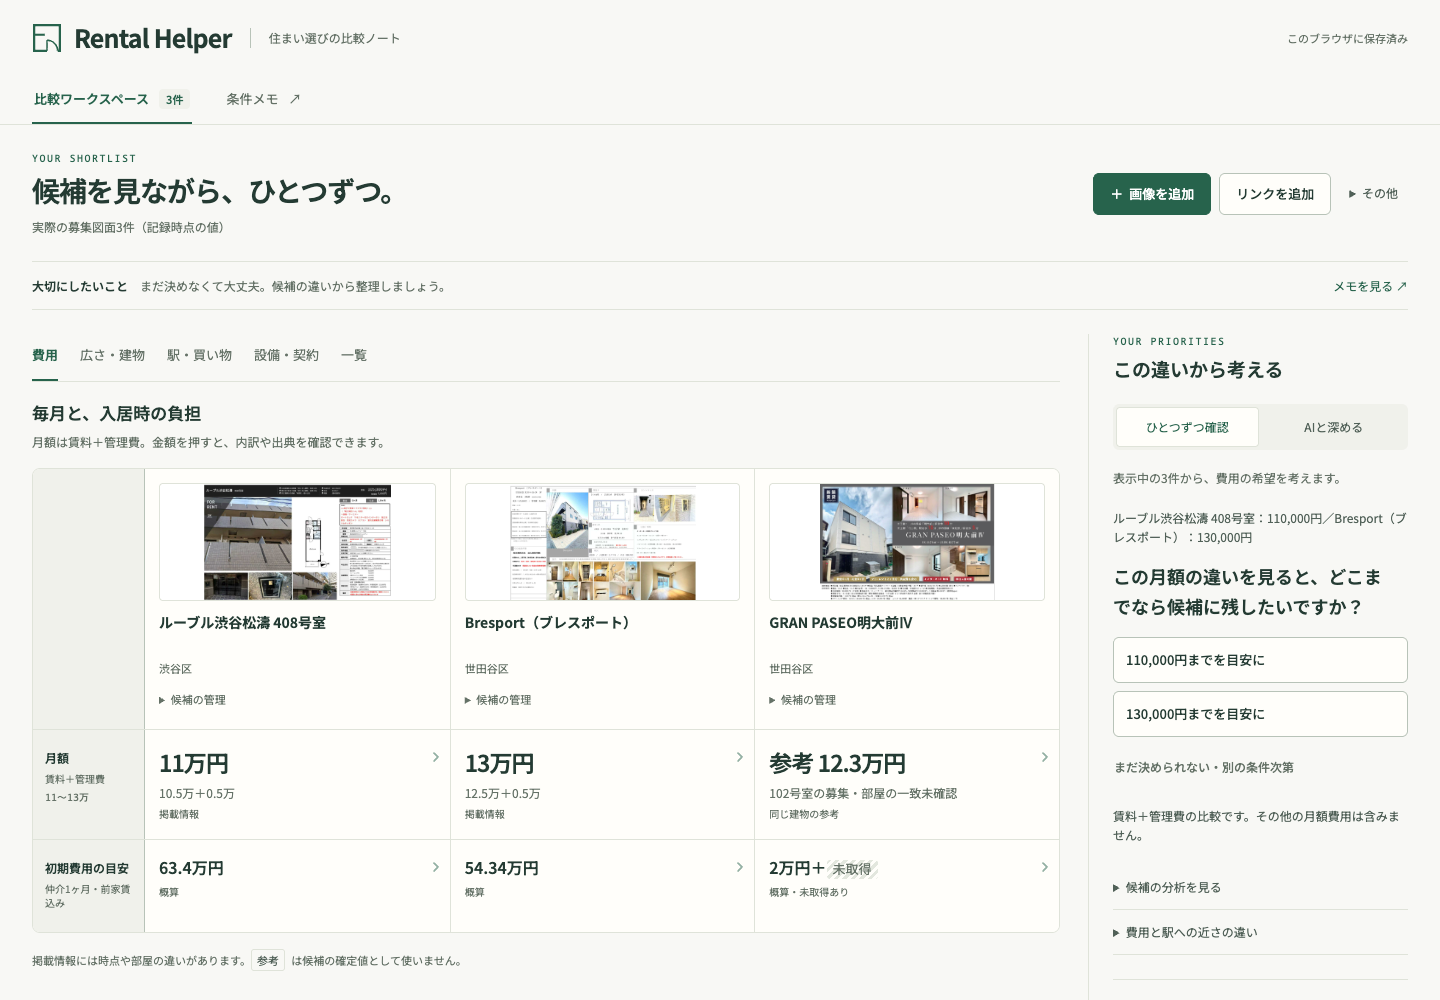
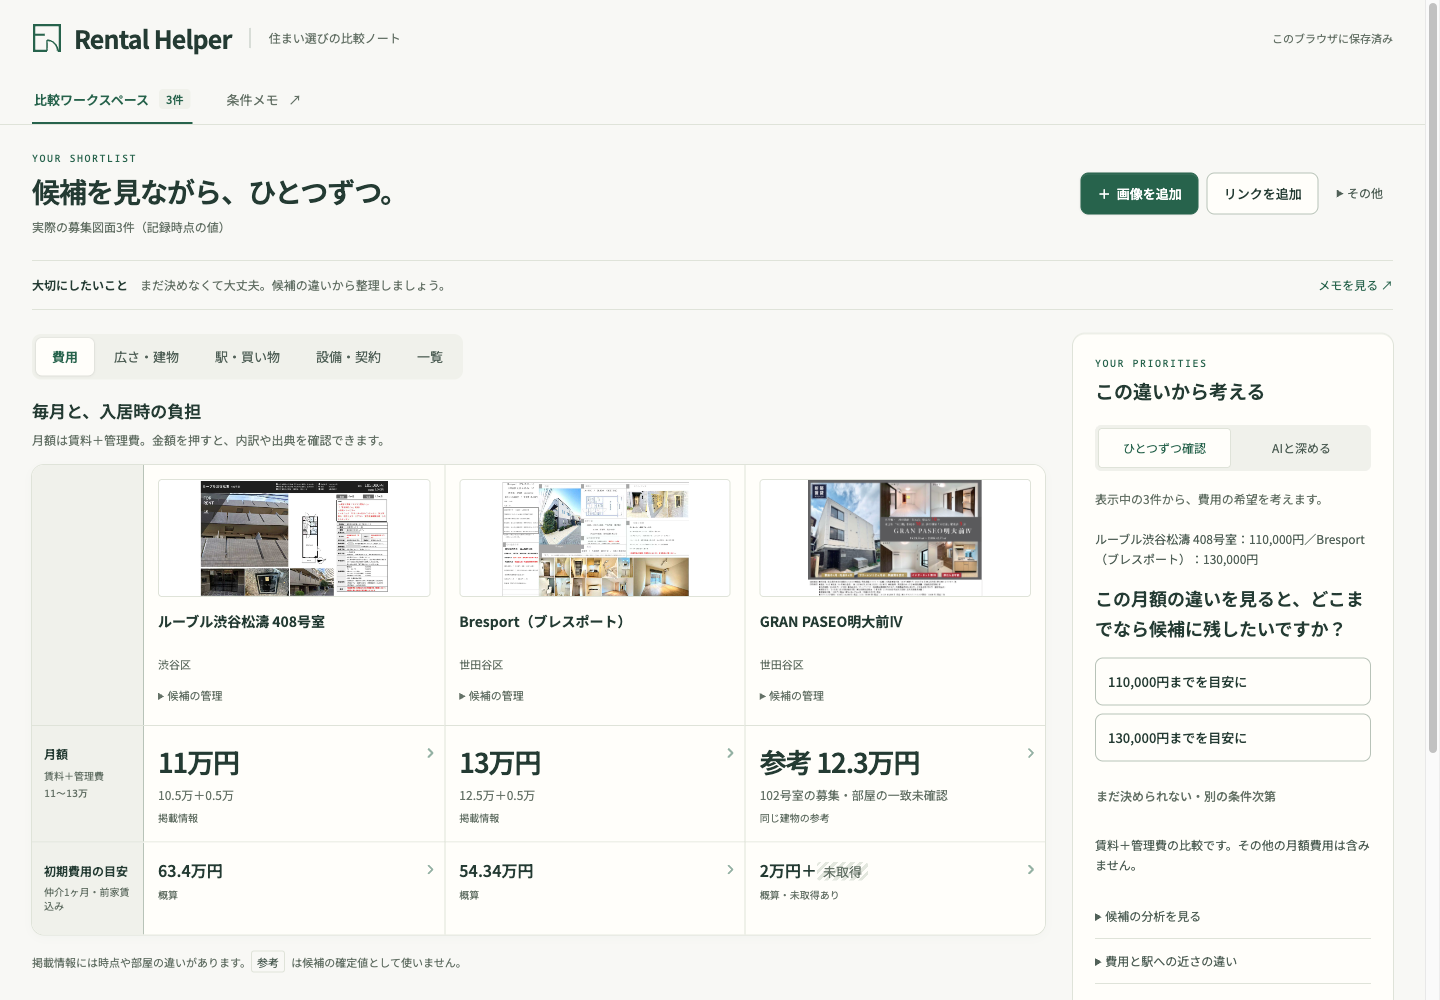
docs(ui): explain Emil-inspired design decisions and refresh walkthrough

diff --git a/docs/UI_DESIGN.md b/docs/UI_DESIGN.md
@@ -1,0 +1,40 @@
+# Interface craft
+
+The workspace should feel like a calm comparison notebook: clear amounts, restrained green accents and original listing evidence. The comparison is the main surface, contextual questions are its inspector, and the brief is the takeaway. Motion explains occasional overlays and acknowledges a press; repeated tab and keyboard actions stay immediate.
+
+This pass applies [Emil Kowalski's design engineering skill](https://github.com/emilkowalski/skills/blob/85e8e2363b713506e1d5b6e07a0eb2da66be1bc3/skills/emil-design-eng/SKILL.md) and [mobile-native skill](https://github.com/emilkowalski/skills/blob/85e8e2363b713506e1d5b6e07a0eb2da66be1bc3/skills/mobile-native/SKILL.md), reviewed on September 22, 2026. The installed skills are development guidance; the shipped frontend has no dependency on them or an animation library.
+
+| Before | After | Why |
+| --- | --- | --- |
+| Similar emphasis across navigation, values and questions | Selected perspective on a quiet segmented surface; larger monthly amounts; a distinct question inspector | Make the current comparison and next action easier to find. |
+| Whole workspace animates on tab changes | Immediate tab changes | Repeated comparison should not wait for decoration. |
+| Every dialog enters from below; closes abruptly | Centered dialogs, right-hand sources and mobile sheets use their own direction; 240 ms entry / 140 ms exit | Preserve spatial context without delaying native controls. |
+| Hover styling also applies to touch | Hover gated by input capability; immediate press feedback | Avoid sticky mouse states after tapping. |
+| Small nested form fonts | Touch inputs/selects/textareas are at least 16 px; date controls have sufficient width | Avoid iOS input zoom without disabling user zoom. |
+| Mobile panel content immediately moves away on close | It remains through the CSS exit and returns to the inspector on desktop | Avoid an empty exit frame; preserve content on resize. |
+| Additional-input disclosure stays open after selection | Close on action, outside click or Escape; restore focus on Escape | Finish the interaction without leaving stray controls open. |
+
+## Ownership
+
+- [workspace.css](../web/static/workspace.css): workspace layout, type, surfaces, responsive composition.
+- [features.css](../web/static/features.css): shared feature form/disclosure layout.
+- [interactions.css](../web/static/interactions.css): motion tokens, native dialog transitions, pointer feedback, safe areas and accessibility overrides. Unsupported discrete transitions fall back to immediate native dialogs.
+- [interactions.js](../web/shared/interactions.js): ephemeral input modality and additional-input disclosure dismissal. It neither reads nor writes tenant preferences.
+- [workspace controller](../web/apps/workspace/index.js): native bottom-panel placement and focus, including open/closed resize cases.
+
+No duplicate tab lists, simulated gestures or custom modal focus traps are introduced. Native buttons, tabs, disclosures and `<dialog>` retain their existing semantics. Text remains selectable; selection suppression applies to controls only. Reduced motion and keyboard use disable transitions.
+
+## Reproduce the interaction checks
+
+Start `npm run dev:web`, then run `npm run smoke:ui`. The [browser scenario](../scripts/browser-ui-smoke.js) uses an isolated Chromium session and requires no API credentials. It checks keyboard tabs, disclosure dismissal, focus return, interrupted dialog open/close, reduced motion, open/closed sheet resizing, 320/390/760 px touch layouts, 16 px form controls and dark mode. `npm run smoke:browser` additionally exercises the existing feature workflow with stubbed providers and a real local sharing API.
+
+[![Comparison workspace](images/compare.png)](images/compare.png)
+
+<details>
+<summary>Mobile question panel — actual recorded-candidate flow</summary>
+
+<img src="images/mobile-guide.png" width="390" alt="A mobile question panel asks which observed monthly amount the tenant would accept; choosing an answer still requires confirmation." />
+
+</details>
+
+Browser emulation is not a physical-device sign-off. The soft keyboard, actual iPhone safe areas, touch latency and overscroll still need a phone check, including landscape orientation. No live provider result or tenant usability improvement is inferred from these UI checks.

diff --git a/docs/DEVELOPMENT.md b/docs/DEVELOPMENT.md
@@ -143,6 +143,8 @@ The default test suite uses provider stubs and does not require live API keys. S
 
 With both development servers running, `npm run smoke:browser` uses a separate Playwright CLI session. Provider calls are stubbed; sharing uses the real local backend and cleans up its link. It downloads a test HTML brief under ignored `output/playwright/`. The first run downloads the CLI/browser if needed.
 
+With just the frontend running, `npm run smoke:ui` checks native dialog/focus behavior, keyboard and reduced-motion paths, touch field sizing, responsive panel restoration and dark mode. These are Chromium/emulated-touch checks; physical phone behavior remains a separate check. See [interface craft](UI_DESIGN.md) for the design rationale and file ownership.
+
 `npm ci && npm run format:check` checks the new feature modules with pinned Prettier. `npm run format` formats them. Backend feature code follows Ruff formatting (`uvx --from ruff==0.12.12 ruff format server/providers server/apps/commute server/apps/leisure server/apps/reviews server/apps/sharing`).
 
 Other commands:
@@ -155,7 +157,7 @@ npm run record:sheets -- --gemini
 
 `smoke` exercises a running API with a fixture. `record:sheets` regenerates recorded demo data using real OCR and checked ground-truth mappings. `--gemini` invokes the live model and evaluates mappings against fixtures; it can incur charges and rewrites generated data. Original `assets/Apt*.jpg` files are ignored; published derivatives in `web/static/sheets/` mask contact details.
 
-Current README screenshots were captured from the actual local UI. The workspace/discovery/memo walkthrough uses contextual numeric questions, with a confirmed flexible ¥110,000 monthly limit. It is not a synthetic Gemini response. See [product validation](../PRODUCT.md#validation-and-release-state) for live-provider limitations.
+README screenshots were captured from the actual local UI. The comparison screenshot shows the latest interface before answering; the discovery/memo walkthrough shows a confirmed flexible ¥110,000 monthly limit. They use contextual numeric questions, not a synthetic Gemini response. See [product validation](../PRODUCT.md#validation-and-release-state) for live-provider limitations.
 
 ## Deployment state
 

diff --git a/docs/VALIDATION.md b/docs/VALIDATION.md
@@ -6,7 +6,9 @@ This log distinguishes implemented behavior, deterministic checks, and actual pr
 | --- | --- | --- |
 | `npm test` | 96 frontend + 95 backend passed; 2 optional real-OCR tests skipped | Logic and provider contracts pass with stubs; not a model accuracy benchmark. |
 | Browser workflow | Desktop/mobile, destination confirmation, partial commute failure, leisure confirmation, scenario frequency, review-to-question, personal observation, memo, private-share defaults and HTML download | Google responses stubbed; no synthetic results are shipped as live observations. |
+| UI polish checks | `npm run smoke:ui` passed: keyboard/focus, Escape/outside dismissal, interrupted native dialogs, reduced motion, open/closed sheet resizing, 320/390/760 px touch layouts, 16 px form inputs, dark mode. `npm run smoke:browser` and 96 frontend tests passed again after UI changes. | Chromium and touch emulation; real phone keyboard/safe-area/gesture checks remain open. [Design decisions](UI_DESIGN.md). |
 | Compose configuration | `docker compose ... config --quiet` passed; local Docker daemon was unavailable | API image build is left to CI; no local image-build claim. |
+| GitHub CI for the feature release | [Run 35641505498](https://github.com/SodaShikenn/rental-helper/actions/runs/35641505498) passed frontend, backend and Docker build/Compose jobs | The image built on GitHub; the public API has not been deployed. |
 | Local sharing | Real backend: create → separate reader → revoke → reader receives not-found | SQLite and revocation work locally; not a public backend deployment. |
 | Live destination search | Google returned 新宿駅 | Place search is accessible with the configured key. |
 | Live Tokyo transit | Public address 東京都渋谷区神南1丁目19-11 → 新宿駅, next-day schedule: **no routes returned** | Transit coverage is unresolved. The UI reports this and links to Maps; it does not substitute walking-to-station or invented routes. |

diff --git a/PRODUCT.md b/PRODUCT.md
@@ -47,6 +47,7 @@ Work-destination and leisure questions follow candidate comparison. A workplace 
 - Numeric questions use known values from the displayed candidates and the current concern. Tentative choices require a second importance confirmation. Confirmed pills can reopen that question.
 - The AI receives the selected concern, displayed candidate evidence, available Maps observations and confirmed context. A changed concern or pair invalidates the displayed reply and cancels pending requests; stale retries cannot cross contexts.
 - On mobile, questions open in a modal bottom panel with Escape/close and focus return. Moving back to desktop restores the panel beside the comparison.
+- Occasional overlays use short directional transitions; keyboard actions and reduced-motion preferences remain immediate. Touch controls use capability-gated hover, readable input sizes and safe-area spacing. [Interface decisions](docs/UI_DESIGN.md) document ownership and validation.
 - Confirmed priorities remain global to the shortlist. Equipment/contract choices and the final memo cover all candidates. View and mobile pair selection are temporary; user work remains saved.
 
 ## Evidence contract

diff --git a/docs/CODE_TOUR.md b/docs/CODE_TOUR.md
@@ -59,9 +59,12 @@ npm test                 # logic + API contracts; no live provider calls
 npm ci                   # optional development formatter
 npm run format:check
 npm run smoke:browser    # start dev:web and dev:server first
+npm run smoke:ui         # interaction checks; only dev:web required
 ```
 
 The [browser smoke scenario](../scripts/browser-smoke.js) stubs provider results but creates, reads and revokes an actual local-backend share. The [runner](../scripts/run-browser-smoke.mjs) uses a separate temporary browser session. It fails on reported CLI errors, including those with exit status zero. Do not confuse this with live Google/Gemini verification.
+
+For interface work, start with [UI design decisions](UI_DESIGN.md). Cross-feature motion and touch behavior live in `web/static/interactions.css`; its small `web/shared/interactions.js` companion owns presentation state only. The workspace controller owns responsive panel placement; business rules stay in the feature modules.
 
 ## How to add a feature
 

diff --git a/README.md b/README.md
@@ -19,7 +19,7 @@ Rental Helper brings candidate facts and sources together, asks focused question
 | If you are… | Start here |
 | --- | --- |
 | A recruiter | [Three-step walkthrough](#try-the-three-step-journey), then [skills demonstrated](#what-this-project-demonstrates). |
-| A product or design reviewer | [Product principles and current progress](PRODUCT.md), then [upcoming user journeys](ROADMAP.md). |
+| A product or design reviewer | [Product principles](PRODUCT.md), [interface decisions and interaction checks](docs/UI_DESIGN.md), then [upcoming user journeys](ROADMAP.md). |
 | An engineering reviewer | [8-step code tour](docs/CODE_TOUR.md), [architecture and setup](docs/DEVELOPMENT.md), and [validation](docs/VALIDATION.md). |
 
 ## Try the three-step journey
